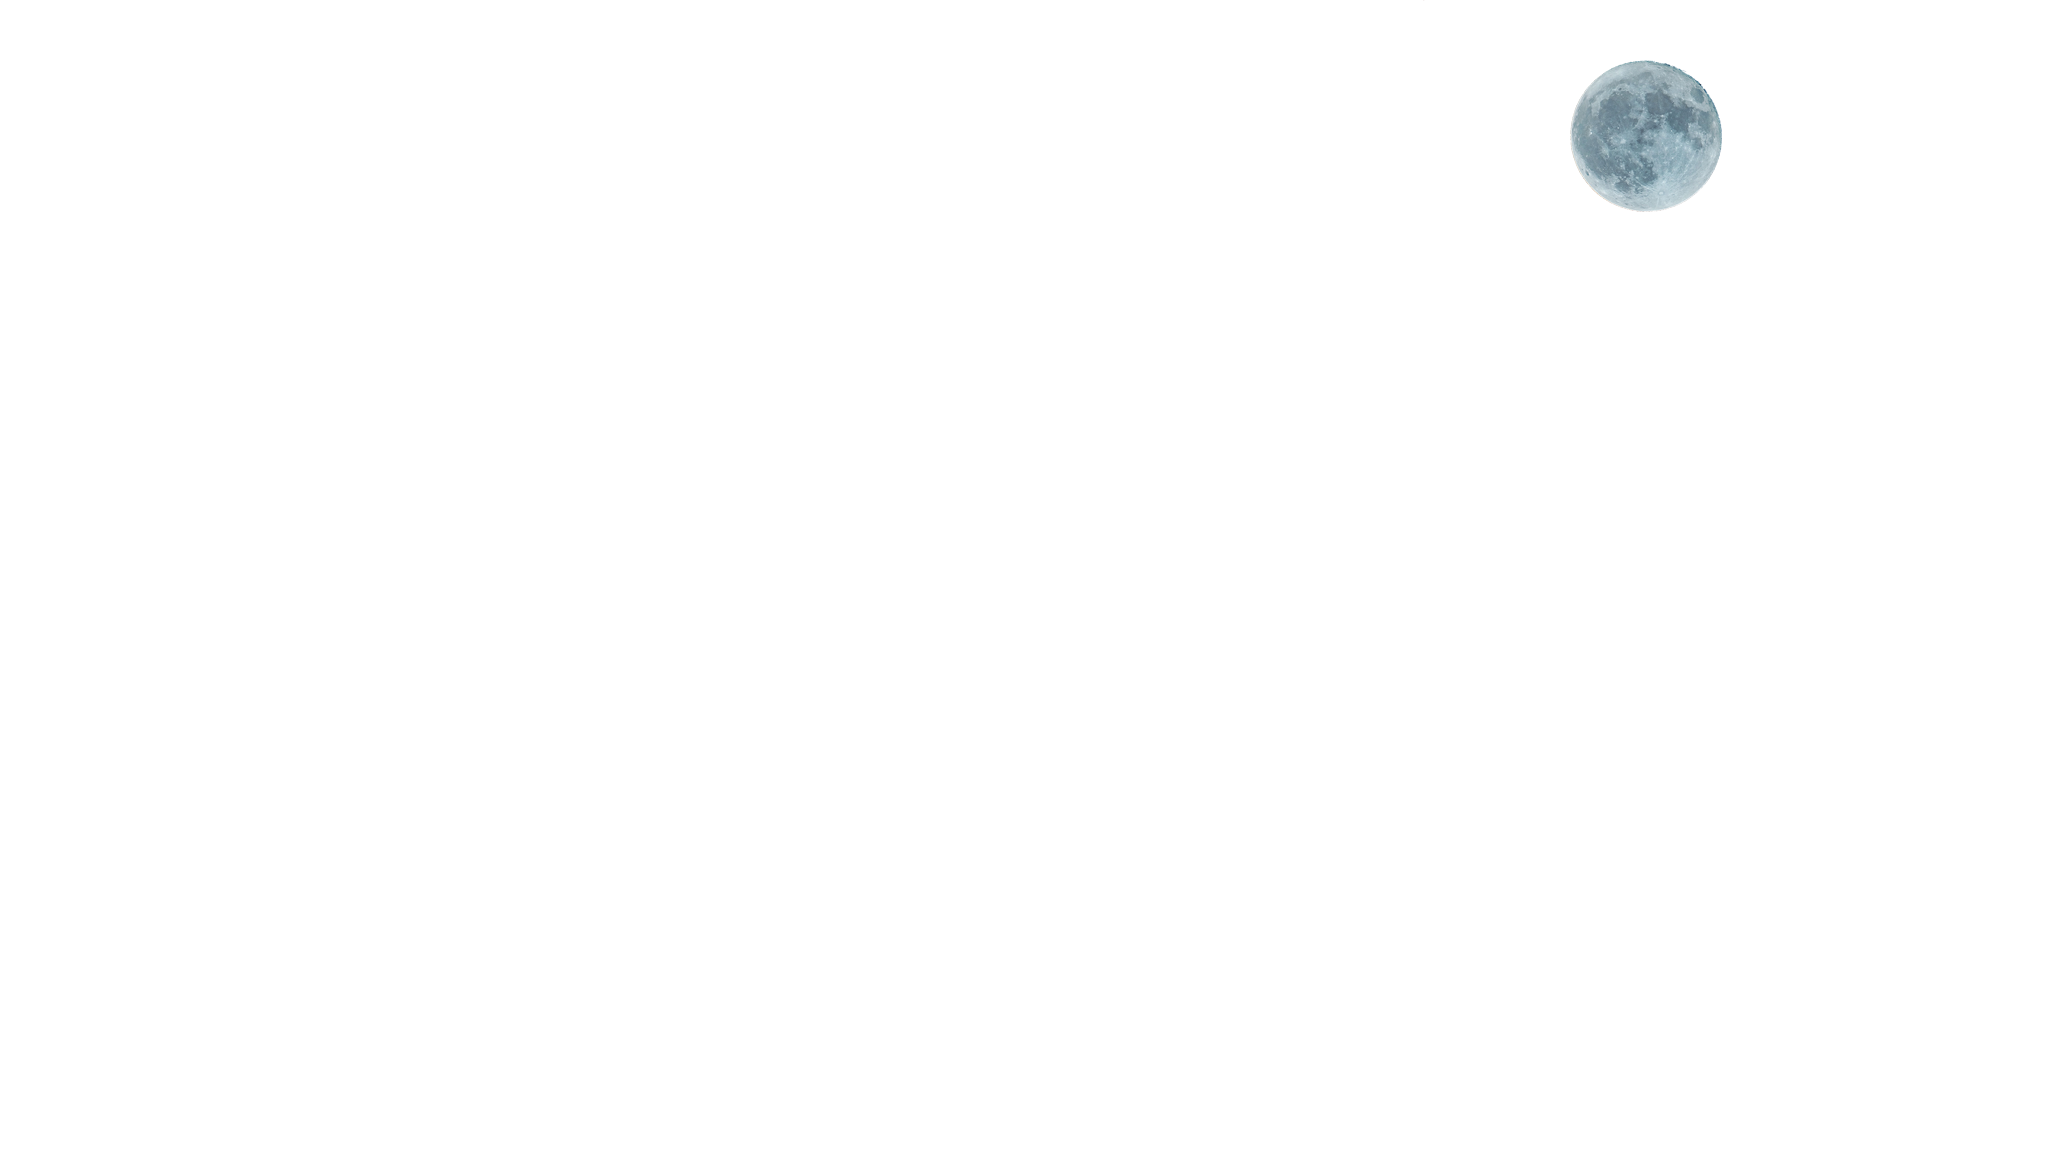
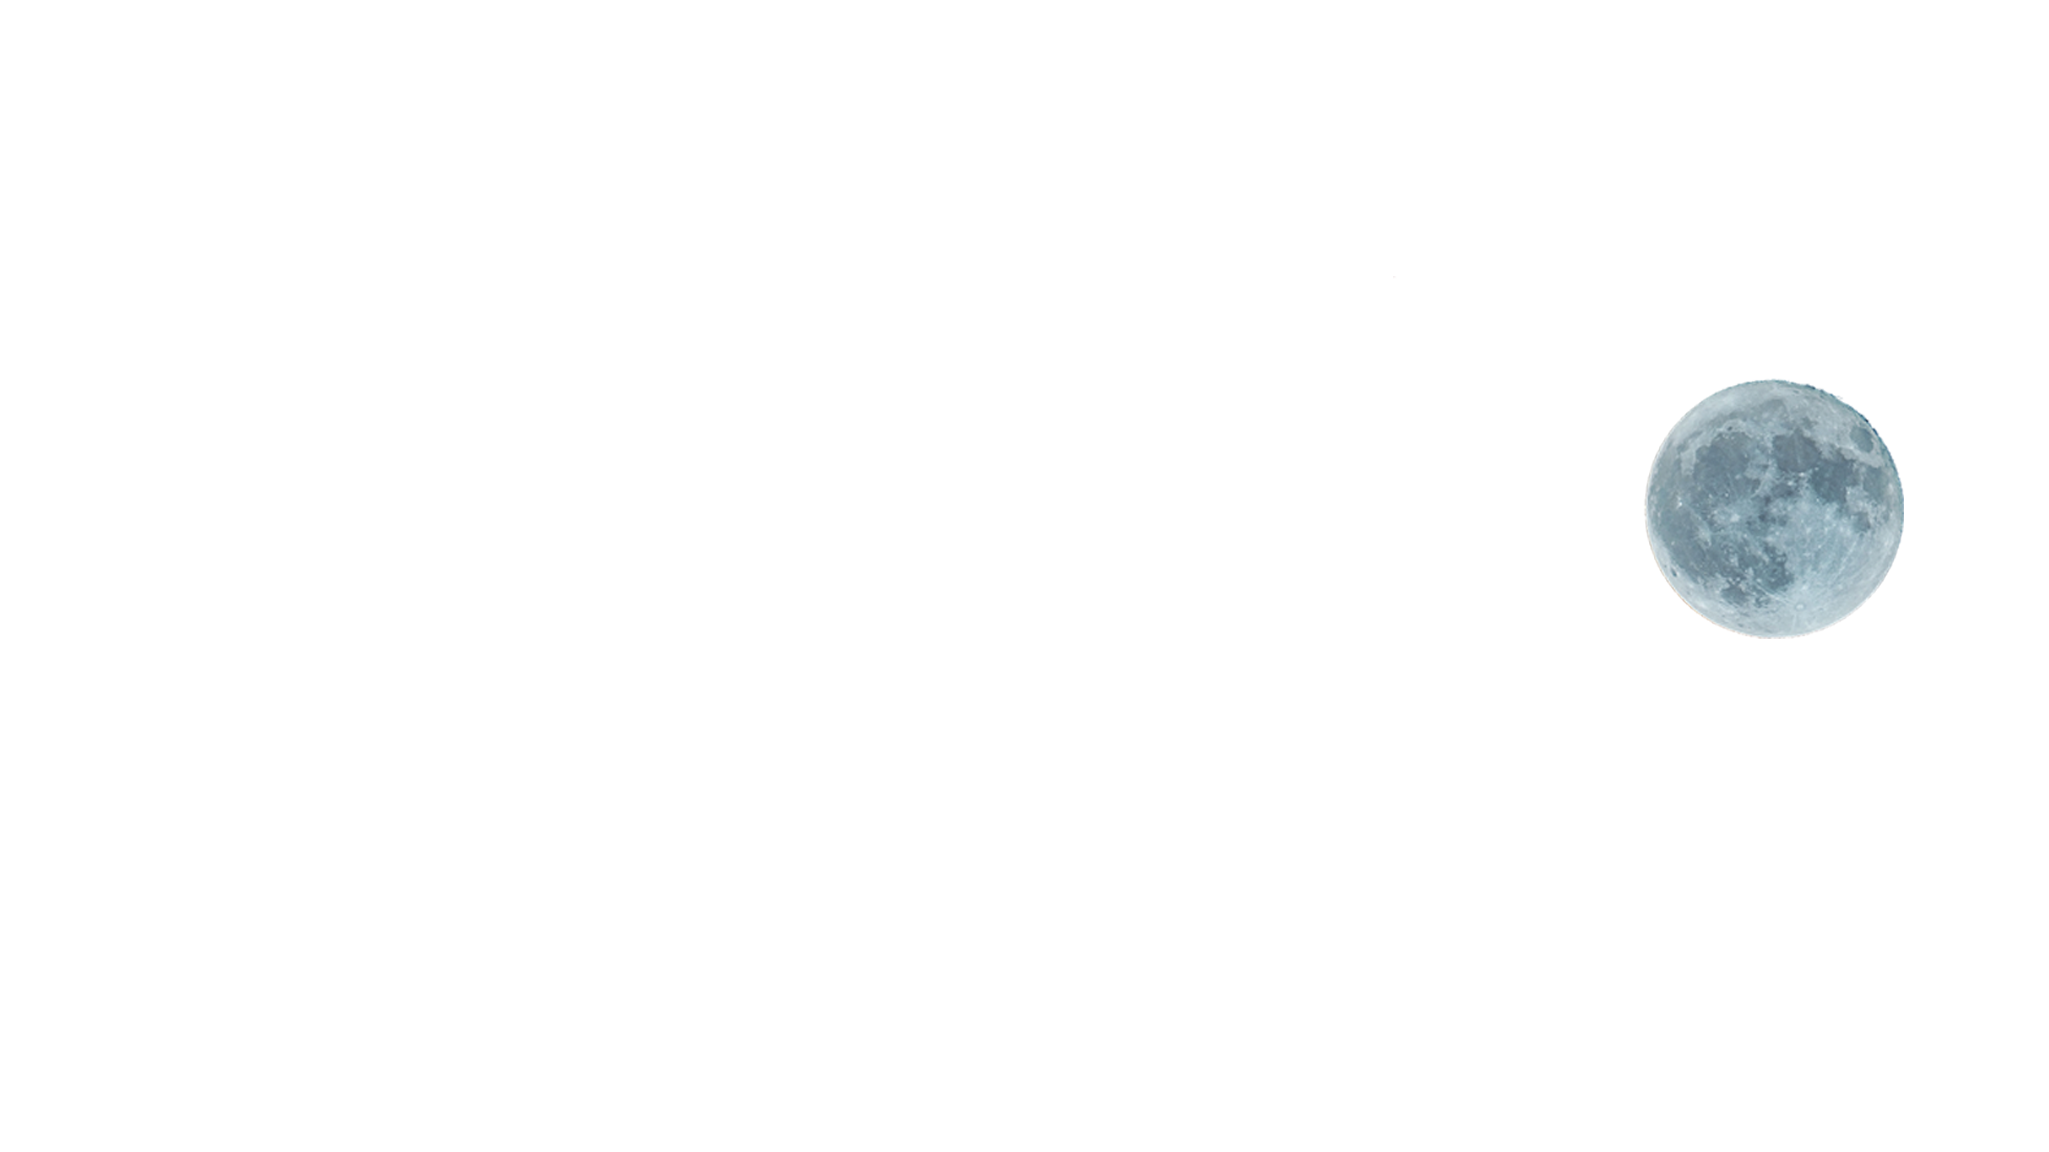
top 完成

Changed region(s): [[0.7809, 0.3125, 0.937, 0.5625], [0.7496, 0.0312, 0.8433, 0.1875]]

diff --git a/style.css b/style.css
@@ -1,29 +1,29 @@
-*{
-   font-family: 'MuseoModerno', cursive; 
-   margin: 0;
-   padding: 0;
+* {
+  font-family: "MuseoModerno", cursive;
+  margin: 0;
+  padding: 0;
 }
-body{
-    background: #0a2633;
-    min-height: 3000px;
+body {
+  background: #0a2633;
+  min-height: 3000px;
 }
-#top{
-    position: relative;
-    width: 100%;
-    height: 150vh;
-    overflow: hidden;
-    display: flex;
-    justify-content: center;
-    align-items: center;
+header {
+  position: relative;
+  width: 100%;
+  height: 120vh;
+  overflow: hidden;
+  display: flex;
+  justify-content: center;
+  align-items: center;
 }
-#top:before{
-    content: "";
-    position: absolute;
-    bottom: 0;
-    width: 100%;
-    height: 10px;
-    background: linear-gradient(to top,#0a2633,transparent);
-    z-index: 10;
+#top:after {
+  content: "";
+  position: absolute;
+  bottom: 0;
+  width: 100%;
+  height: 10px;
+  background: linear-gradient(to top, #0e2630 20%, transparent);
+  z-index: 10;
 }
 /* #top:after{
     content: "";
@@ -36,19 +36,22 @@ body{
     z-index: 10;
     mix-blend-mode: color;
 } */
-#top img{
-    position: absolute;
-    top: 0px;
-    left: 0px;
-    width: 100%;
-    height: 100%;
-    object-fit: cover;
-    pointer-events: none;
+#top img {
+  position: absolute;
+  left: 0px;
+  width: 100%;
+  height: 100%;
+  object-fit: cover;
+  pointer-events: none;
 }
-#top h1{
-    position: relative;
-    color: rgb(255, 255, 255);
-    font-size: 100px;
-    z-index: 1;
-    font-family: 'MuseoModerno';
+#top h1 {
+  position: relative;
+  top: -200px;
+  color: rgb(255, 255, 255);
+  font-size: 100px;
+  z-index: 1;
+  font-family: "MuseoModerno";
+}
+#road {
+  z-index: 10;
 }

diff --git a/index.html b/index.html
@@ -1,6 +1,5 @@
 <!DOCTYPE html>
 <html lang="en">
-
 <head>
     <meta charset="UTF-8">
     <meta name="viewport" content="width=device-width, initial-scale=1.0">
@@ -17,9 +16,24 @@
         <img src="./images/moon.png" alt="" id="moon" width="200px">
         <img src="./images/mountain.png" alt="" id="mountain">
         <img src="./images/road.png" alt="" id="road">
-        <h1>CSS Zen Garden</h1>
+        <h1 id="text">CSS Zen Garden</h1>
     </header>
+<script>
+    let bg = document.getElementById('bg')
+    let moon = document.getElementById('moon')
+    let mountain = document.getElementById('mountain')
+    let road = document.getElementById('road')
+    let text = document.getElementById('text')
 
+    window.addEventListener('scroll',function(){
+        const value =window.scrollY;
+        bg.style.top= value*0.5 +'px';
+        moon.style.left = -value * 0.5 + 'px';
+        moon.style.top = -value * 0.6 + 'px';
+        mountain.style.top = -value * 0.15 + 'px';
+        road.style.top = value * 0.15 + 'px';
+        text.style.top = value-200 + 'px';
+    })
+</script>
 </body>
-
 </html>
